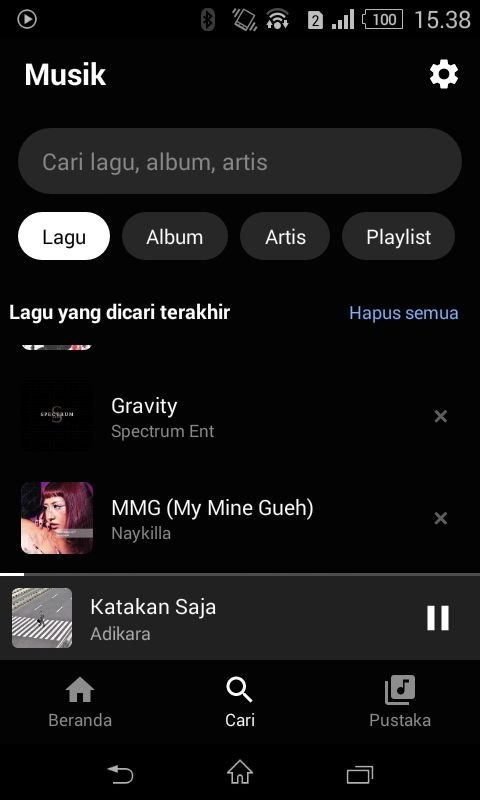
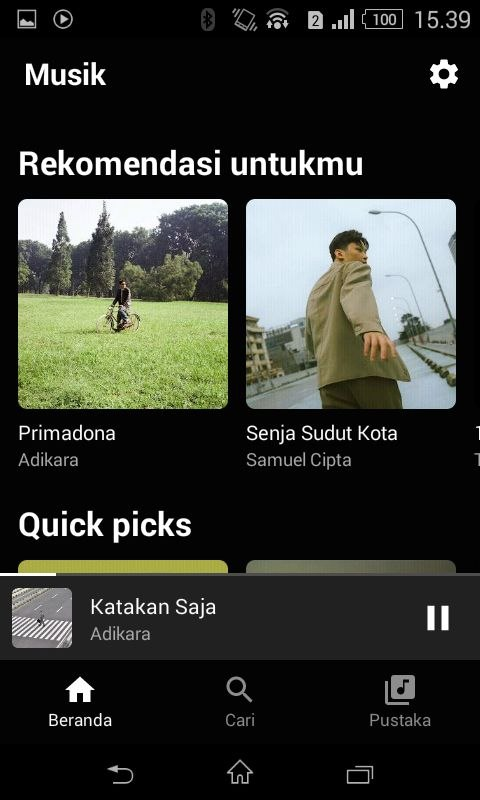
site: 7 screenshot asli YTM Relay (beranda, cari, pemutar, pustaka)

diff --git a/ytm-relay.html b/ytm-relay.html
@@ -96,9 +96,14 @@
         <h2>Tampilan</h2>
         <p>Antarmuka ringkas, fokus pada pencarian dan pemutaran. Screenshot asli dari Xperia E1, Android 4.4.</p>
       </div>
-      <div class="shots pair">
+      <div class="shots">
         <a class="shot has-img" href="assets/ytm-1.jpg"><img class="r35" src="assets/ytm-1.jpg" alt="Beranda YTM Relay dengan bagian Trending songs for you dan All Time Hits, mini player memutar lagu Iris" width="480" height="800"><span class="cap">Beranda: trending dan all time hits</span></a>
-        <a class="shot has-img" href="assets/ytm-2.jpg"><img class="r35" src="assets/ytm-2.jpg" alt="Halaman pencarian YTM Relay dengan filter Lagu, Album, Artis, Playlist dan riwayat lagu yang dicari terakhir" width="480" height="800"><span class="cap">Cari: filter kategori dan riwayat</span></a>
+        <a class="shot has-img" href="assets/ytm-2.jpg"><img class="r35" src="assets/ytm-2.jpg" alt="Beranda YTM Relay bagian Rekomendasi untukmu dan Quick picks dengan lagu Primadona dan Senja Sudut Kota" width="480" height="800"><span class="cap">Beranda: rekomendasi dan quick picks</span></a>
+        <a class="shot has-img" href="assets/ytm-3.jpg"><img class="r35" src="assets/ytm-3.jpg" alt="Beranda YTM Relay bagian Trending community playlists dan Today's Indonesian Hits" width="480" height="800"><span class="cap">Beranda: playlist komunitas</span></a>
+        <a class="shot has-img" href="assets/ytm-4.jpg"><img class="r35" src="assets/ytm-4.jpg" alt="Halaman pencarian YTM Relay dengan filter Lagu, Album, Artis, Playlist dan riwayat lagu yang dicari terakhir" width="480" height="800"><span class="cap">Cari: filter kategori dan riwayat</span></a>
+        <a class="shot has-img" href="assets/ytm-5.jpg"><img class="r35" src="assets/ytm-5.jpg" alt="Halaman pencarian YTM Relay saat mengetik spectrum ent, muncul daftar saran pencarian" width="480" height="800"><span class="cap">Cari: saran saat mengetik</span></a>
+        <a class="shot has-img" href="assets/ytm-6.jpg"><img class="r35" src="assets/ytm-6.jpg" alt="Pemutar penuh YTM Relay memutar lagu Iris dengan progres, tombol shuffle, sebelumnya, jeda, berikutnya dan ulangi" width="480" height="800"><span class="cap">Pemutar: kontrol penuh</span></a>
+        <a class="shot has-img" href="assets/ytm-7.jpg"><img class="r35" src="assets/ytm-7.jpg" alt="Tab Pustaka YTM Relay berisi Favorit, Riwayat, dan tombol buat playlist baru" width="480" height="800"><span class="cap">Pustaka: favorit dan riwayat</span></a>
       </div>
     </div>
   </section>
